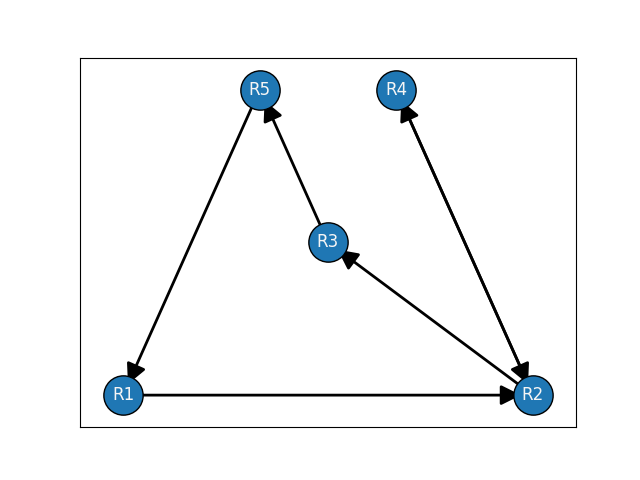
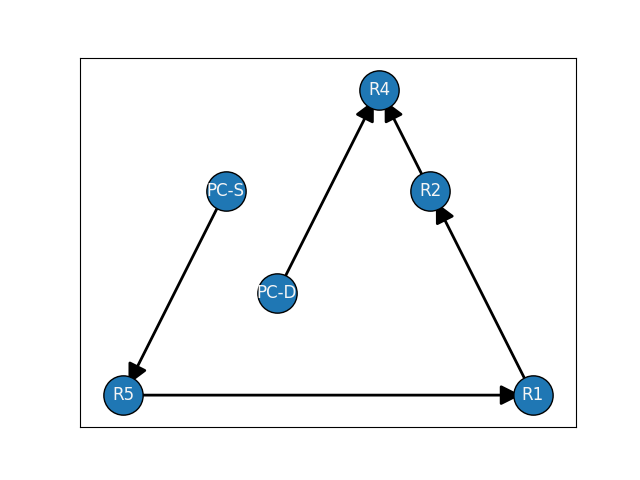
Commit changes from 2022.10.25

diff --git a/lib/network_analyzer/NetworkAnalyzer.py b/lib/network_analyzer/NetworkAnalyzer.py
@@ -1,9 +1,10 @@
 import logging
 import networkx as nx
+import netaddr
 import matplotlib.pyplot as plt
 
-from network_analyzer.Host import Host
-from network_analyzer.exception.exception import NodeNotFoundException
+from network_analyzer.Host import Host, SourceHost, DestinationHost
+from network_analyzer.exception.exception import NodeNotFoundException, NetworkSourceDestinationException, NetworkMultipleDefinitionException
 from utils.ip import compare_cidr_and_ip_address
 
 logger = logging.getLogger(__name__)
@@ -11,14 +12,26 @@ logger = logging.getLogger(__name__)
 class NetworkAnalyzer:
     hosts = []
     graph = nx.DiGraph()
+    source = None
+    destination = None
     
-    def __init__(self, facts):
+    errors = []
+    
+    def __init__(self, facts, source, destination):
         # Create a new host for every fact element
         # Add the hosts to the hosts directive
         for hostname, host_facts in facts.items():
             logger.debug(f"Adding host {hostname}")
             self.hosts.append(Host(host_facts))
         logger.debug("Hosts loaded")
+        # Load source and destination network as netaddr
+        try:
+            source = netaddr.IPNetwork(source)
+            destination = netaddr.IPNetwork(destination)
+        except ValueError as e:
+            logger.error("Source or destination network not correct {}".format(str(e)))
+        
+        self.init_network(source, destination)
         self.init_graph()
         
     def init_graph(self):
@@ -28,13 +41,51 @@ class NetworkAnalyzer:
         for host in self.hosts:
             # Get all routes of a host
             for table in host.routes:
-                # Filter VRF routes. In our environment, VRF routes only represent management network access
-                # which we would like to filter from our real network.
-                if 'vrf' not in table:
-                    for route in table['address_families']:
-                        edges.append(self.create_graph_edge(host, route['routes'][0]['next_hops'][0]['forward_router_address']))
+                edge = self.create_route_edge(host, table)
+                if edge:
+                    edges.append(edge)
+            for interface in host.interfaces:
+                edge = self.create_pc_edge(host, interface)
+                if edge:
+                    edges.append(edge)
         self.graph.add_edges_from(edges)
         logger.debug("Network initialization complete")
+    
+    def init_network(self, source, destination):
+        # Initialize network, find source and destination networok provided by the user.
+        # If these networks cannot be found in the current hosts, the program will exit.
+        source_found = False
+        destination_found  = False
+        for host in self.hosts:
+            for interface in host.interfaces:
+                net = self.check_source_destination(interface, source, destination)
+                if net == "source" and source_found:
+                    raise NetworkMultipleDefinitionException(f"The network {str(destination)} is defined multiple times in the network")
+                elif net == "source":
+                    self.source = SourceHost(source, host.facts)
+                    source_found = True
+                elif net == "destination" and destination_found:
+                    raise NetworkMultipleDefinitionException(f"The network {str(destination)} is defined multiple times in the network")
+                elif net == "destination":
+                    self.destination = DestinationHost(destination, host.facts)
+                    destination_found = True
+        if source_found and destination_found:
+            logger.info("Source and destination network found!")
+        else:
+            raise NetworkSourceDestinationException("Network source or destination not found in the network!")
+    
+    def check_source_destination(self, interface, source, destination):
+        # Check for source and destination network/IP address.
+        # This route will be checked against loops and other factors which might influence the routing capabilities.
+        if 'ipv4' in interface:
+            ip_addr = netaddr.IPNetwork(interface['ipv4'][0]['address'])
+            # Comparing received address (eg: 192.168.1.1/24) with network address from config: 192.168.1.0/24
+            if ip_addr == source:
+                return "source"
+            # Comparing received address (eg: 192.168.1.1/24) with network address from config: 192.168.1.0/24
+            elif ip_addr == destination:
+                return "destination"
+        return None
     
     def create_graph_edge(self, host, source_ip):
         # Create a graph edge with source ip (IP address of current host)
@@ -46,11 +97,47 @@ class NetworkAnalyzer:
         else:
             return (host.hostname, dest_host.hostname)
     
-    def detect_loop(self):
+    def create_route_edge(self, host, table):
+        # Filter VRF routes. In our environment, VRF routes only represent management network access
+        # which we would like to filter from our real network.
+        if 'vrf' not in table:
+            for route in table['address_families']:
+                # Filter routes based on destination. If the current route is not destinated towards our destination network, ignore it.
+                if netaddr.IPNetwork(route['routes'][0]['dest']) == self.destination.network:
+                    return self.create_graph_edge(host, route['routes'][0]['next_hops'][0]['forward_router_address'])
+        return None
+    
+    def create_pc_edge(self, host, interface):
+        # Create static PC nodes in the graph. These represent the computers used in network troubleshooting.
+        # PC-S will be the Source PC (this will be placed at the source network)
+        # PC-D will be the Destination PC (this will be placed at the destination network)
+        if 'ipv4' in interface:
+            if netaddr.IPNetwork(interface['ipv4'][0]['address']) == self.source.network:
+                return ('PC-S', host.hostname)
+            elif netaddr.IPNetwork(interface['ipv4'][0]['address']) == self.destination.network:
+                return (host.hostname, 'PC-D')
+        return None
+    
+    def detect_loop_in_route(self):
         # Check if the current graph contains a loop.
+        current_loop = None
         for loop in nx.simple_cycles(self.graph):
             current_loop = loop.copy()
-        
+        # The current_loop var is empty if there are no loops in the network
+        if current_loop:
+            if nx.hash_path(self.graph, self.source.hostname, self.destination.hostname):
+                # It has a loop, but the path is clear towards the destination, so the current route is unaffected.
+                return {"loop": True, "affected": False, "members": current_loop}
+            # It has a loop and the path is not clear towards the destination.
+            return {"loop": True, "affected": True, "members": current_loop}
+        # Check if there is no loop, the route is still functional
+        else:
+            # If it has path and there is no loop, the network seems healthy.
+            if nx.has_path(self.graph, self.source.hostname, self.destination.hostname):
+                return {"loop": False, "affected": False}
+            # No loop, but there is no route to the destination - maybe a rupture in the route.
+            else:
+                return {"loop": False, "affected": True}
         
     def find_host_with_ip_address(self, ip_address):
         # Check if a host has an IP Address
@@ -66,7 +153,7 @@ class NetworkAnalyzer:
         # Raise error if the current IP address cannot be found in the network.
         raise NodeNotFoundException(f"Not found {ip_address}")
 
-    def plot_graph(self):
+    def plot_graph(self, filename):
         # Plot the graph to a file
         # Used for debugging and creating visualizations for thesis.
         planar = nx.planar_layout(self.graph)
@@ -74,7 +161,7 @@ class NetworkAnalyzer:
         nx.draw_networkx_edges(self.graph, planar, edgelist=self.graph.edges(), arrowsize=30, width=2, edge_color="black")
         nx.draw_networkx_labels(self.graph, planar, font_color="whitesmoke")
         # Show the graph
-        plt.savefig('plot.png')
+        plt.savefig(filename)
         logger.info("Plot saved to file!")
         
     def __str__(self):
@@ -82,3 +169,6 @@ class NetworkAnalyzer:
         for host in self.hosts:
             ret_string += str(host) + "\n"
         return ret_string
+    
+    def __repr__(self):
+        return f"NetworkAnalyzer({str(self.hosts)})"

diff --git a/lib/main.py b/lib/main.py
@@ -19,49 +19,68 @@ def setup_logging():
     handler.setFormatter(formatter)
     logger.addHandler(handler)
 
-def main():
-    init(autoreset=True)
-    setup_logging()
-    
-    # Ansible cfg env beállítása
-    os.environ["ANSIBLE_CONFIG"] = os.path.abspath("../ansible/ansible.cfg")
-
-    # CLI paraméterek beállítása
+def setup_parser():
+    # Set CLI parser
     parser = argparse.ArgumentParser(description="Szakdolgozat CLI tool")
     parser.add_argument('playbook', metavar="playbook", type=str, help="Location of the playbook file to run")
-    parser.add_argument('--inventory', metavar="inv", dest='inventory', type=str, default='../ansible/hosts.yml', help="Location of the inventory file to use for the current run")
+    parser.add_argument('-s', type=str, dest="source", required=True, help="Source IP Address with netmask")
+    parser.add_argument('-d', type=str, dest="destination", required=True, help="Destination IP Address with netmask")
+    parser.add_argument('--data-dir', metavar="datadir", dest="datadir", type=str, default='../ansible/', help="Location of the private data dir")
     parser.add_argument('--auto-fix', dest="autofix", action='store_true', help="Fix the detected errors")
     parser.add_argument('--no-auto-fix', dest="autofix", action="store_false", help="Just report detected errors")
+    parser.add_argument('--filename', dest="filename", default="plot.png", help="Filename of the plotted network (PNG)")
     parser.set_defaults(autofix=True)
-    args = parser.parse_args()
+    return parser.parse_args()
 
+def main():
+    # Init colorama, setup logging
+    init(autoreset=True)
+    setup_logging()
+    args = setup_parser()
+
+    # Set Ansible cfg env variable
+    os.environ["ANSIBLE_CONFIG"] = os.path.abspath("../ansible/ansible.cfg")
+
+    default_data_dir = os.path.abspath(args.datadir)
+    
     logger.debug("Program initalization complete")
     print(Fore.CYAN + "Starting Network Analyzer Tool")
-    
+    print(Fore.GREEN + f"Source IP address/network: {args.source}")
+    print(Fore.GREEN + f"Destination IP address/network: {args.destination}")
     logger.info("Running supplied playbook")
     
-    # A megadott teszteset playbook lefuttatása
-    run_playbook(inventory_file=os.path.abspath(args.inventory), playbook_file=os.path.abspath(args.playbook))
+    # Run the selected playbook
+    run_playbook(playbook_file=os.path.abspath(args.playbook), data_dir=default_data_dir)
     logger.debug("Supplied playbook finished")
 
     logger.debug("Running gather_facts playbook")
-    # Összes elérhető infó kinyerés a routerek-ből, annak érdekében, hogy a hiba elemzése minél könnyebb legyen
-    results = run_playbook(inventory_file=os.path.abspath(args.inventory), playbook_file=os.path.abspath('../ansible/gather-ios-facts.yml'))
+    # Run this playbook every time and get facts from this
+    results = run_playbook(playbook_file=os.path.abspath('../ansible/project/gather-ios-facts.yml'), data_dir=default_data_dir)
     logger.debug("Facts gathered")
 
-    # Algoritmus futtatása, hiba keresése
-    analyzer = NetworkAnalyzer(results)
-    analyzer.plot_graph()
+    # Run the network analyzer on the gathered facts
+    analyzer = NetworkAnalyzer(results, source=args.source, destination=args.destination)
+    network_state = analyzer.detect_loop_in_route()
+    logger.debug(network_state)
+    # Handle different network states here.
+    # Loop: Try to eliminate if it is in the current route. Just warn if it is somewhere else.
+    # Possible loop solutions: 
+    #   Next hop is in the network, but the address has some typo
+    #   The netmask is not correct (Longer netmask can cause real problems, first just warn for shorter netmask)
     
-    # Javítás elküldése (ha lehetséges és kérte a felhasználó)
+    # Plot the graph. If issues found, highlight the problematic node/edge and also indicate possible solutions as well.
+    analyzer.plot_graph(filename=args.filename)
+    
+    # Fix the found errors if requested.
     if args.autofix:
-        run_task()
+        print(Fore.RED + "Auto-fixing errors")
+        # run_task(role='cisco-config-interfaces', hosts="routers", vars={'interfaces': []}, data_dir=os.path.abspath('../ansible/'))
     else:
+        print(Fore.CYAN + "Status of network")
         print("Print status")
     
     print(Fore.CYAN + "Program finished, exiting!")
     print(Fore.YELLOW + Style.DIM + "Bye!")
     
 if __name__ == "__main__":
-    # main()
-    run_task('cisco-config-interfaces', '../ansible/hosts.yml')
+    main()

diff --git a/lib/network_analyzer/Host.py b/lib/network_analyzer/Host.py
@@ -12,7 +12,22 @@ class Host:
         self.hostname = facts['ansible_net_hostname']
         self.interfaces = facts['ansible_network_resources']['l3_interfaces']
         self.routes = facts['ansible_network_resources']['static_routes']
+        self.facts = facts
         logger.debug("Host {} loaded".format(str(self.hostname)))
         
     def __str__(self):
         return "[{}] - Interfaces: {}\nRoutes: {}".format(self.hostname, str(self.interfaces), str(self.routes))
+
+class SourceHost(Host):
+    # SourceHost contains the source network.
+    def __init__(self, source, facts):
+        self.network = source
+        logger.debug("Init SourceHost")
+        super().__init__(facts)
+
+class DestinationHost(Host):
+    # DestinationHost contains the destination network.
+    def __init__(self, destination, facts):
+        self.network = destination
+        logger.debug("Init DestinationHost")
+        super().__init__(facts)

diff --git a/lib/ansible_api/playbook.py b/lib/ansible_api/playbook.py
@@ -2,12 +2,16 @@ import logging
 from pathlib import Path
 import ansible_runner
 
+from network_analyzer.exception.exception import PlaybookRunException
+
 logger = logging.getLogger(__name__)
 
-def run_playbook(inventory_file, playbook_file):
-    logger.debug("Running playbook {} with inventory {}".format(Path(playbook_file).name, Path(inventory_file).name))
-    r = ansible_runner.run(playbook=playbook_file, inventory=inventory_file)
+def run_playbook(playbook_file, data_dir):
+    logger.info("Running playbook '{}' in data_dir '{}'".format(Path(playbook_file).name, Path(data_dir).name))
+    r = ansible_runner.run(private_data_dir=data_dir, playbook=playbook_file)
     logger.info("{}: {}".format(r.status, r.rc))
+    if r.status != "successful":
+        raise PlaybookRunException(f"Playbook run failed {r.status}")
     logger.debug(r.stats)
     host_facts = {}
     for ok_host in r.stats['ok']:

diff --git a/lib/utils/ip.py b/lib/utils/ip.py
@@ -4,3 +4,11 @@ def compare_cidr_and_ip_address(cidr_ip, ip_address):
     # Compare CIDR IP Address (192.168.30.1/30) with pure IP address (192.168.30.1)
     # Returns true if the IP addresses match, False if they are not the same.
     return netaddr.IPNetwork(cidr_ip).ip == netaddr.IPAddress(ip_address)
+
+def check_network_contains_ip(ip_address, network):
+    # Check if the provided ip_address is in the provided network
+    return netaddr.IPAddress(ip_address) in netaddr.IPNetwork(network)
+
+def check_network_contains_network(contained_network, containing_network):
+    # Check if the contained_network is in the containing network (Eg.: 192.168.1.0/24 is in 192.168.1.0/22)
+    return netaddr.IPNetwork(contained_network) in netaddr.IPNetwork(containing_network)

diff --git a/lib/ansible_api/task.py b/lib/ansible_api/task.py
@@ -4,8 +4,8 @@ import ansible_runner
 
 logger = logging.getLogger(__name__)
 
-def run_task(role, inventory_file):
-    logger.debug("Running task/role with inventory {}".format(Path(inventory_file).name))
-    r = ansible_runner.run(role=role)
+def run_task(role, hosts, vars, data_dir):
+    logger.info("Running task/role {} in data dir {}".format(Path(role).name, Path(data_dir).name))
+    r = ansible_runner.run(private_data_dir=data_dir, role=role, hosts=hosts, role_vars=vars, gather_facts=False)
     logger.info("{}: {}".format(r.status, r.rc))
     logger.debug(r.stats)

diff --git a/lib/network_analyzer/exception/exception.py b/lib/network_analyzer/exception/exception.py
@@ -1,3 +1,15 @@
 class NodeNotFoundException(Exception):
     def __init__(self, message):
         super().__init__(message)
+
+class NetworkSourceDestinationException(Exception):
+    def __init__(self, message):
+        super().__init__(message)
+
+class NetworkMultipleDefinitionException(Exception):
+    def __init__(self, message):
+        super().__init__(message)
+
+class PlaybookRunException(Exception):
+    def __init__(self, message):
+        super().__init__(message)

diff --git a/README.md b/README.md
@@ -139,3 +139,16 @@ A konfigurálása a netplan yaml alapú leírással történik.
 Viszont a host-on megtalálható interfészek nevei nem egyeznek a CML-ben láthatókkal!
 
 **Például a CML-ben látható ```ens3``` interfész az Ubuntu-ban ```ens2```-ként látszik!**
+
+## Network Analyzer
+### Telepítés
+A programnak szüksége van bizonyos modulokra a helyes működéshez. Ez telepíthető egyszerűen az alábbi parancssal:
+```
+pip install -r requirements.txt
+```
+
+### Használat
+A program indítása:
+```
+python3 ../ansible/project/initial-network.yml -s 10.0.2.2/24 -d 10.0.1.2/24
+```
